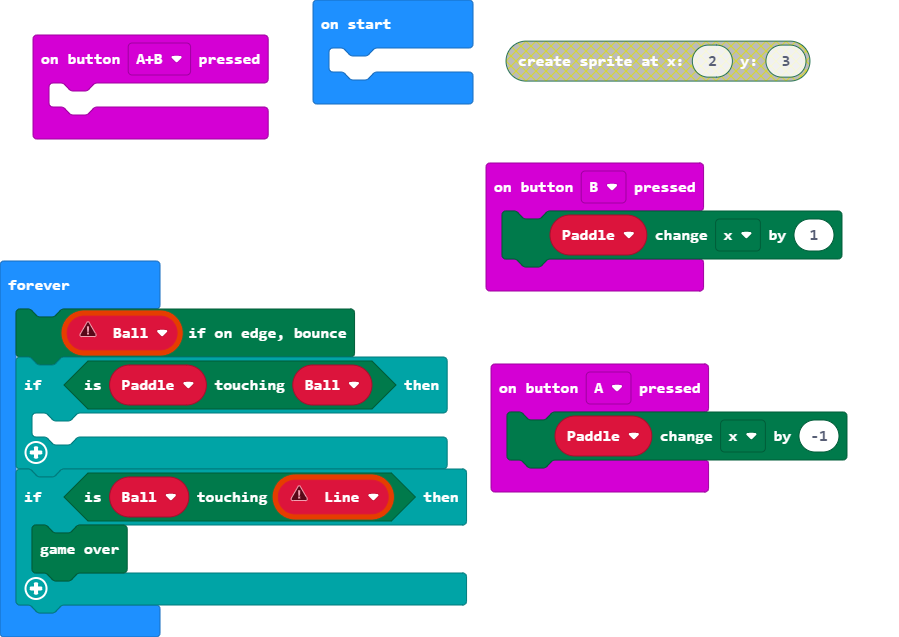
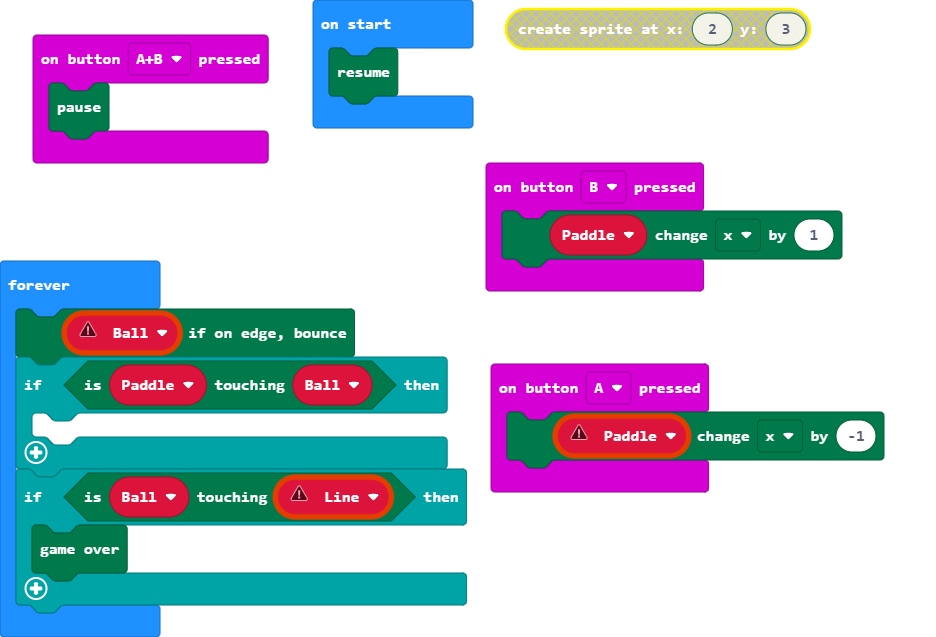
Update main.blocks, main.ts

diff --git a/main.ts b/main.ts
@@ -1,13 +1,14 @@
-let Paddle: game.LedSprite = null
 input.onButtonPressed(Button.A, function () {
     Paddle.change(LedSpriteProperty.X, -1)
 })
 input.onButtonPressed(Button.AB, function () {
-	
+    game.pause()
 })
 input.onButtonPressed(Button.B, function () {
     Paddle.change(LedSpriteProperty.X, 1)
 })
+let Paddle: game.LedSprite = null
+game.resume()
 basic.forever(function () {
     let Line: game.LedSprite = null
     let Ball: game.LedSprite = null
